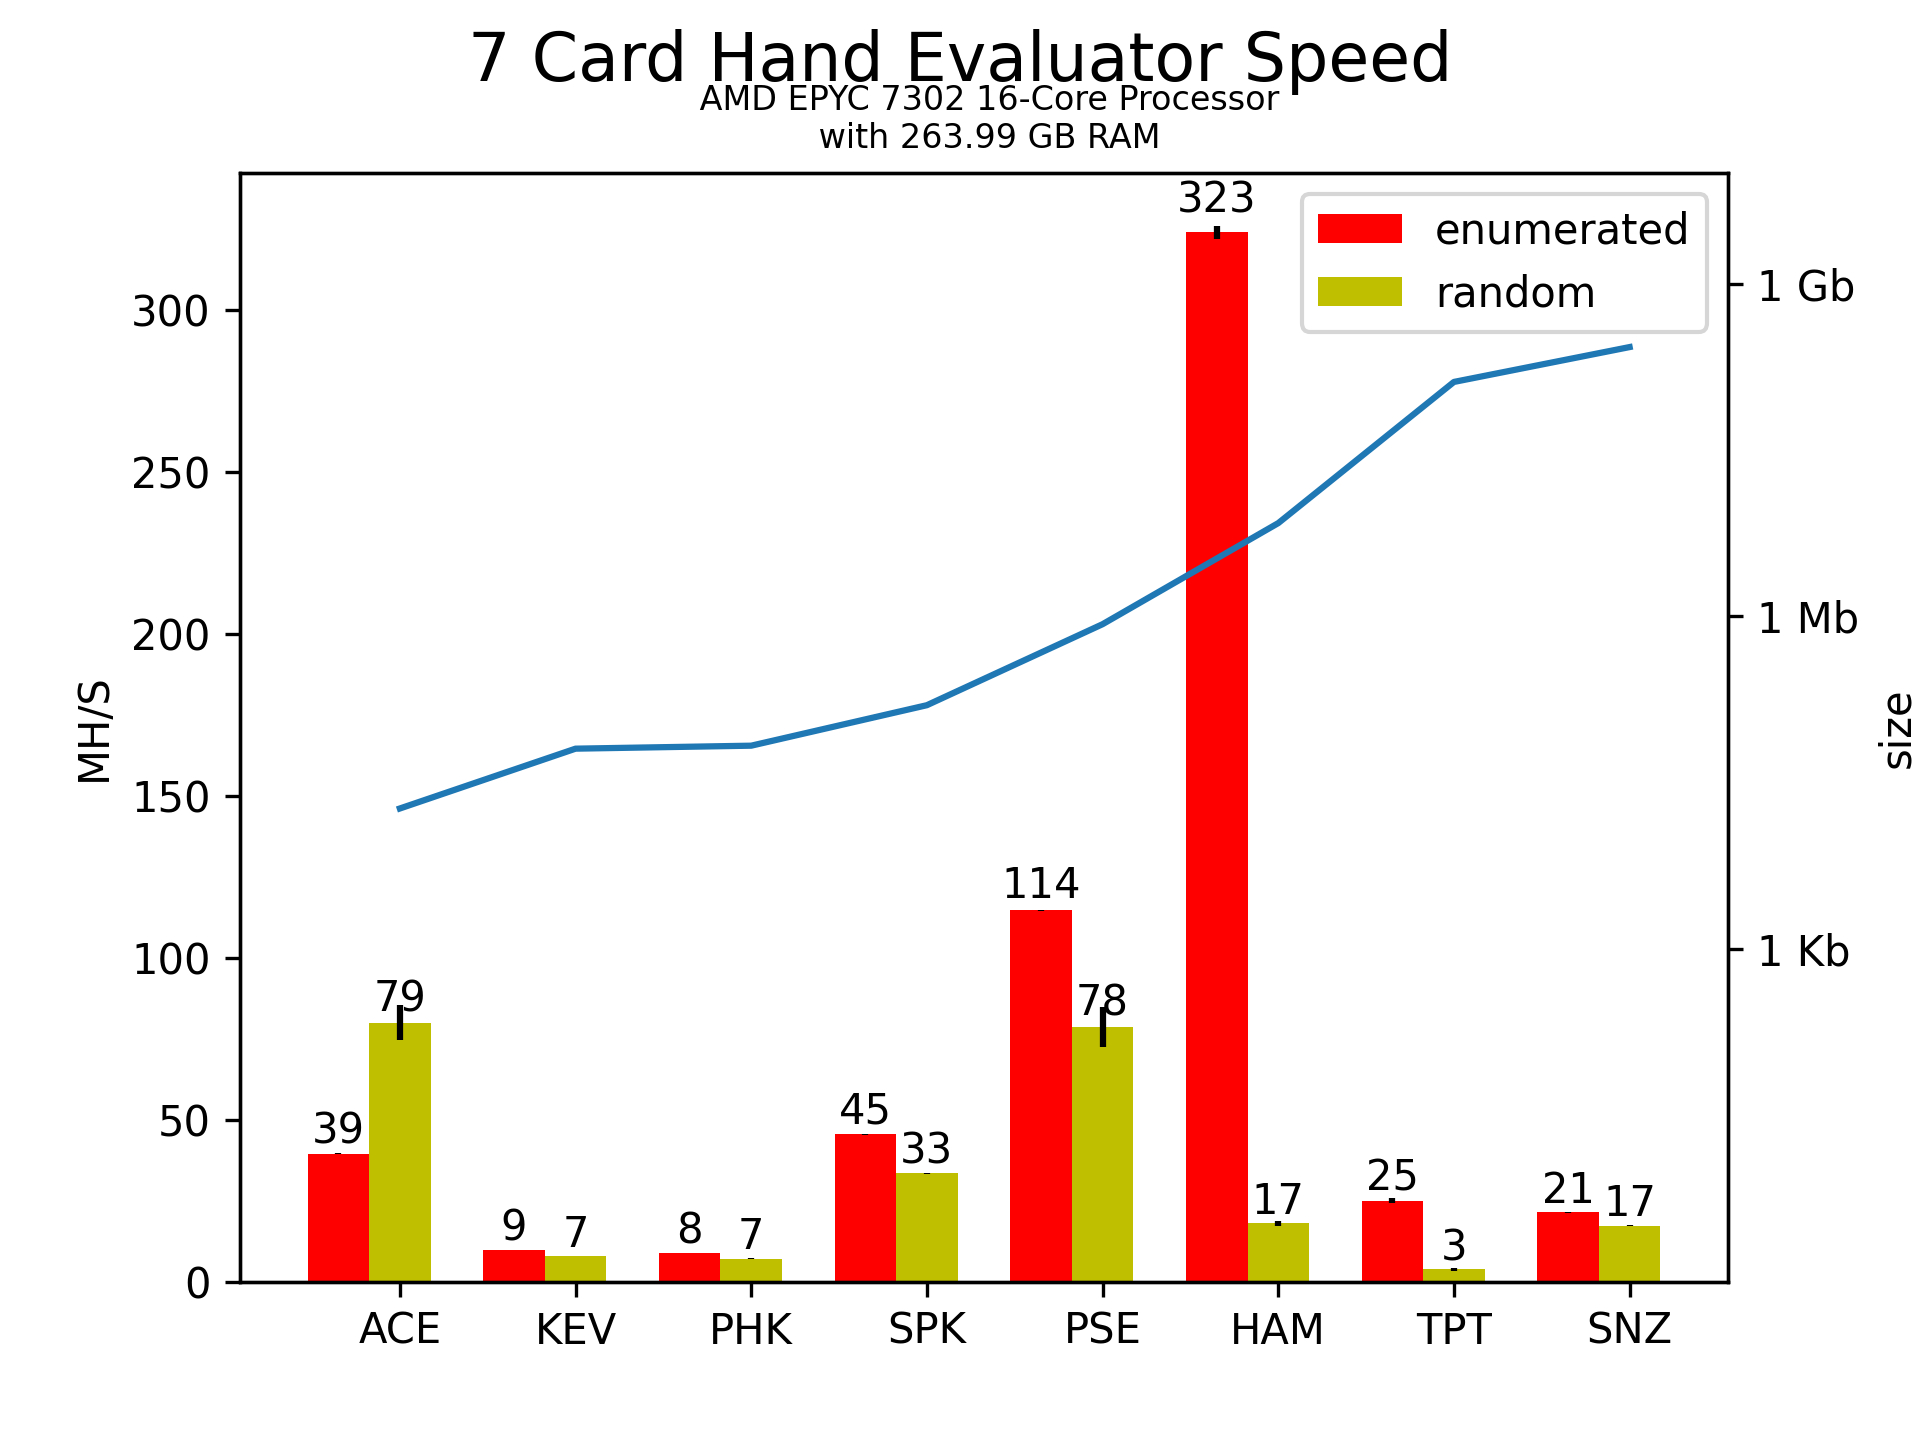
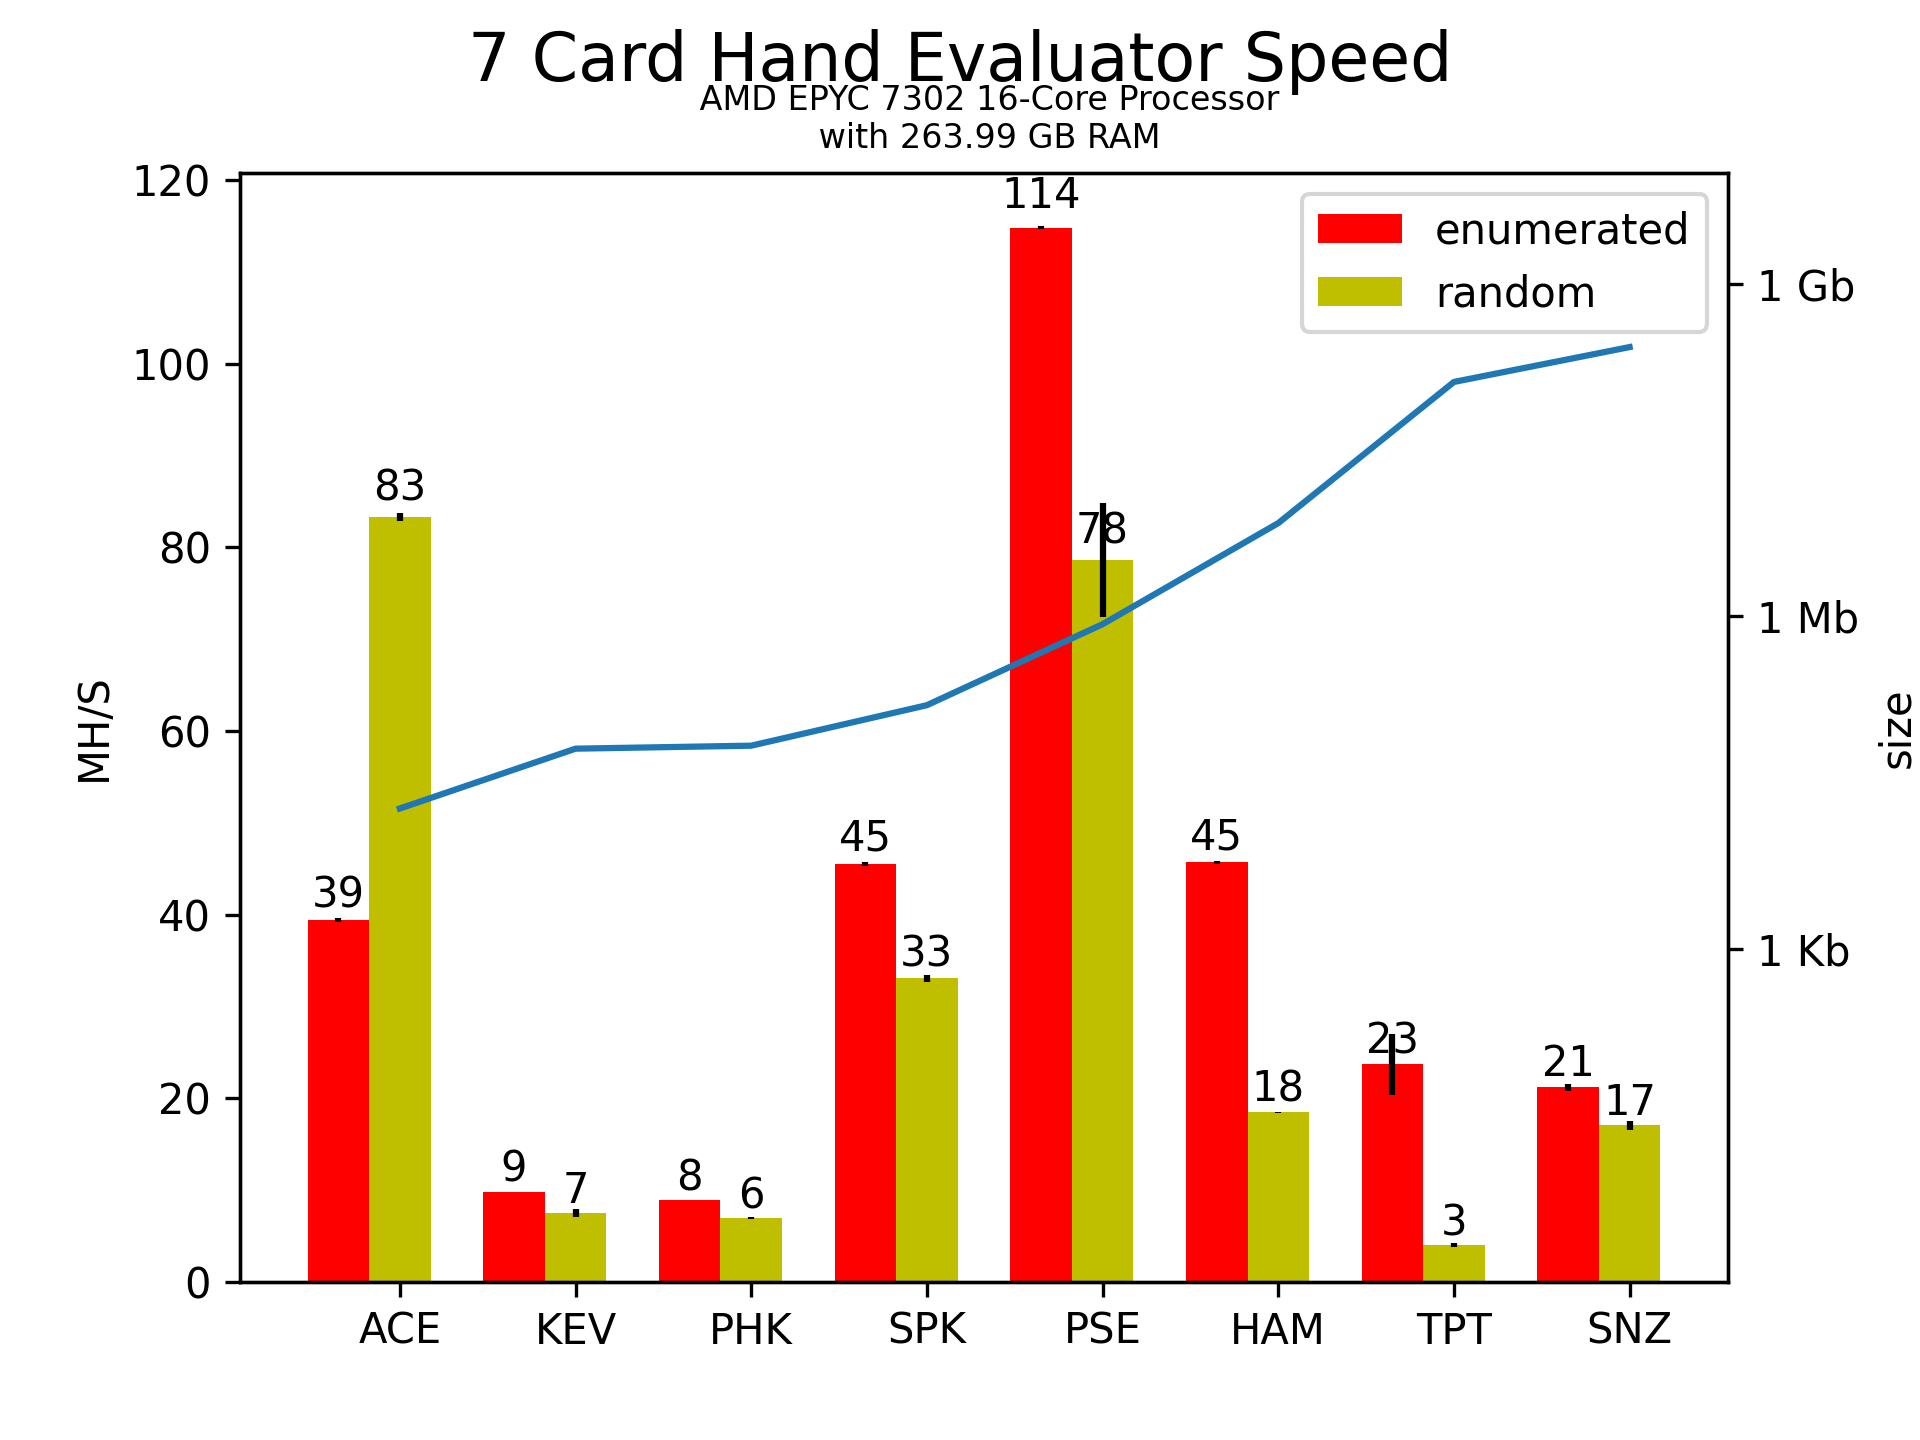
fix hammer test result

diff --git a/speed_test.c b/speed_test.c
@@ -164,9 +164,9 @@ float report(const char* typestr, sysTime_t timings, sysTime_t endtimings, clock
   double clocksused = platformSysTimeToMs(platformTimeElapsed(endtimings,timings));
   float mhps = count/((double)clocksused/1000)/1000000.0;
 
-  printf("\nValidation seconds = %.4lf\nTotal HighPrecision Clocks = %lf\n"
+  printf("\nValidation count = %d\nValidation seconds = %.4lf\nTotal HighPrecision Clocks = %lf\n"
          "HighPrecision clocks per lookup = %lf\n", 
-         (double)timer/CLOCKS_PER_SEC, clocksused, (double) clocksused /  count) ;
+         count, (double)timer/CLOCKS_PER_SEC, clocksused, (double) clocksused /  count) ;
 
   printf("\n %lf Mhands/sec (%s)\n",mhps,typestr);
   return mhps;
@@ -297,8 +297,8 @@ int main(int argc, char*argv[])
         if (handTypeSum[i]!=expected_freq_7[r]) {
           printf("Error, should be %8d\n",expected_freq_7[r]);
         }
+        count+=expected_freq_7[r]; //TODO: need expected for N<7
       }
-    count+=expected_freq_7[r]; //TODO: need expected for N<7
   }
 
   speed[0]=report("Enumerated", timings,endtimings,timer,count);

diff --git a/hammer/HAM_eval.h b/hammer/HAM_eval.h
@@ -15,8 +15,8 @@ typedef Card* Hand;
 #define HAMHAND 8
 static int HAM_init() { 
   //todo: add local version of these loaders with error checking and combined file
-  load_equivalenceclasses("./build/ham_table1.dat"); 
-  load_dag("./build/ham_table2.dat");
+  load_equivalenceclasses("ham_table1.dat"); 
+  load_dag("ham_table2.dat");
   return 0;
 }
 static inline Card HAM_makecard(int i){return (((i%13)<<2)|(i/13));}
